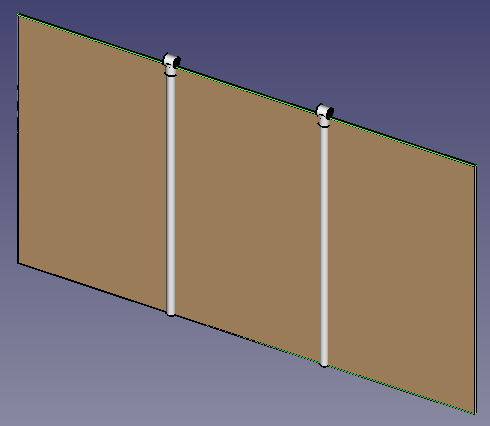
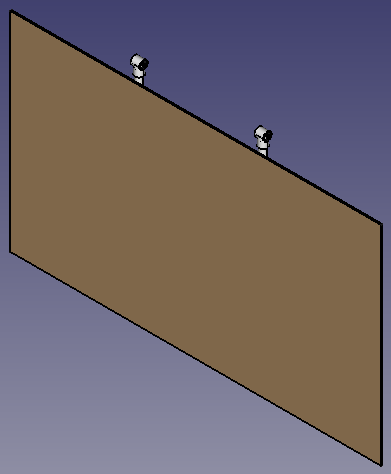
Created Unrinal Back and modified Cabin Back

diff --git a/src/python/structures.py b/src/python/structures.py
@@ -529,16 +529,17 @@ class Cabin_Floor: # TODO: Refactor to inherit from Structure Class
         self.structure = structure
 
 class Cabin_Back(Structure):
-    """ A class representing a Cabin Rear structure used as part of
+    """ A class representing a Cabin Back structure used as part of
     a composting toilet project."""
     
-    
+    board_start_y = back_y - joint_radius
+
     def __init__(self,
                 freecad_document,
                 structure_label,
                 rotation = App.Rotation(0,0,0),
                 centre = App.Vector(0,0,0)):
-        """ Constructs a Cabin_Rear in the freecad_document, with label attribute
+        """ Constructs a Cabin_Back in the freecad_document, with label attribute
         given by parameter structure_label and centre and rotation given by the
         corresponding parameters.  """
 
@@ -571,11 +572,10 @@ class Cabin_Back(Structure):
         right_mid_pole = make_pole(right_mid_pole_line, "Right_Mid_Pole")
 
         # Make Board
-        board_overlap = Double_Fixing_Pad.width / 2
+        board_start_z = seat_z + pole_radius + floor_board_thickness
         back_panel_rect = Draft.makeRectangle(board_length, 
-                                              back_roof_z - 
-                                              seat_support_z - 
-                                              pole_diameter)
+                                              wall_top_z - 
+                                              board_start_z)
         back_panel = Arch.makePanel(back_panel_rect, 
                                     thickness = side_panel_board_thickness)
         back_panel.Label = "Back_Panel"
@@ -584,8 +584,82 @@ class Cabin_Back(Structure):
                 App.Rotation(0, 0, 90),
                 App.Vector(0, 0, 0))
         Draft.move(back_panel, App.Vector(0,
-                        back_y + side_panel_board_thickness / 2,
-                        seat_support_z + pole_radius))
+                        Cabin_Back.board_start_y,
+                        board_start_z))
+
+        # TODO: Add fixings for boards
+
+        # Create a parts list
+        parts_list = [roof_left_mid_joint.fitting,
+                      roof_right_mid_joint.fitting,
+                      left_mid_pole,
+                      right_mid_pole,
+                      back_panel]
+        
+        super().__init__(freecad_document,
+                        structure_label,
+                        rotation,
+                        centre,
+                        parts_list)
+        
+class Urinal_Back(Structure):
+    """ A class representing a Urinal Back structure used as part of
+    a composting toilet project."""
+    
+    board_start_y = back_y - joint_radius
+    
+    def __init__(self,
+                freecad_document,
+                structure_label,
+                rotation = App.Rotation(0,0,0),
+                centre = App.Vector(0,0,0)):
+        """ Constructs a Urinal_Back in the freecad_document, with label attribute
+        given by parameter structure_label and centre and rotation given by the
+        corresponding parameters.  """
+
+        left_offset = App.Vector(pole_radius, 0, 0)
+        right_offset = App.Vector(side_panel_seperation_x - pole_radius, 0, 0)
+
+        # Make joints
+
+        roof_left_mid_joint  = Short_T(freecad_document = freecad_document,
+                                           fitting_label = "Roof_Left_Mid_Joint",
+                                           rotation = App.Rotation(0, 0, 0),
+                                           centre = back_roof_left_mid_centre)
+        roof_right_mid_joint  = Short_T(freecad_document = freecad_document,
+                                           fitting_label = "Roof_Right_Mid_Joint",
+                                           rotation = App.Rotation(0, 0, 0),
+                                           centre = back_roof_right_mid_centre)
+
+        # Make poles
+
+        pole_offset = App.Vector(0, 0, pole_radius)
+
+        left_mid_pole_start = back_floor_left_mid_centre + pole_offset
+        left_mid_pole_end = back_roof_left_mid_centre - pole_offset
+        left_mid_pole_line = Draft.make_line(left_mid_pole_start, left_mid_pole_end)
+        left_mid_pole = make_pole(left_mid_pole_line, "Left_Mid_Pole")
+
+        right_mid_pole_start = back_floor_right_mid_centre + pole_offset
+        right_mid_pole_end = back_roof_right_mid_centre - pole_offset
+        right_mid_pole_line = Draft.make_line(right_mid_pole_start, right_mid_pole_end)
+        right_mid_pole = make_pole(right_mid_pole_line, "Right_Mid_Pole")
+
+        # Make Board
+        board_start_z = floor_z + pole_radius + floor_board_thickness
+        back_panel_rect = Draft.makeRectangle(board_length, 
+                                              wall_top_z - 
+                                              board_start_z)
+        back_panel = Arch.makePanel(back_panel_rect, 
+                                    thickness = side_panel_board_thickness)
+        back_panel.Label = "Back_Panel"
+        back_panel.Placement = App.Placement(
+                App.Vector(0, 0, 0),
+                App.Rotation(0, 0, 90),
+                App.Vector(0, 0, 0))
+        Draft.move(back_panel, App.Vector(0,
+                        Urinal_Back.board_start_y,
+                        board_start_z))
 
         # TODO: Add fixings for boards
 

diff --git a/src/python/urinal_back_test.py b/src/python/urinal_back_test.py
@@ -1,0 +1,48 @@
+# This FreeCAD macro script makes Urinal Back objects
+# for advanced positioning and rotation testing as well as to
+# indicate how these panels can be connected together to.
+
+#  Import the packages that we need - TODO check that all of these are needed
+import FreeCAD as App
+import FreeCADGui as Gui
+
+from parameters import *
+from structures import Urinal_Back
+from structures import Urinal_Floor
+from structures import Side_Panel
+
+# Set Up Freecad and Select Workbench
+App.Console.PrintMessage("Starting FreeCAD generation.\n")
+doc_name = "Fittings"
+document = App.newDocument(doc_name)
+Gui.activeDocument().activeView().viewDefaultOrientation()
+Gui.runCommand('Std_OrthographicCamera',1)
+Gui.activateWorkbench("BIMWorkbench21")
+
+# Make 3 side panels a board length apart.
+side_panel_1 = Side_Panel(freecad_document = document, 
+                          structure_label = "Side_Panel_1")
+side_panel_2 = Side_Panel(freecad_document = document, 
+                          structure_label = "Side_Panel_2",
+                          centre = App.Vector(side_panel_seperation_x, 0, 0))
+side_panel_3 = Side_Panel(freecad_document = document, 
+                          structure_label = "Side_Panel_3",
+                          centre =  App.Vector(2 * side_panel_seperation_x, 0, 0))
+
+# Make Urinal Floors
+urinal_floor_1 = Urinal_Floor(freecad_document = document, 
+                          structure_label = "Urinal_Floor_1")
+urinal_floor_2 = Urinal_Floor(freecad_document = document, 
+                          structure_label = "Urinal_Floor_2",
+                          centre =  App.Vector(side_panel_seperation_x, 0, 0))
+# Make Urinal Backs
+urinal_back_1 = Urinal_Back(freecad_document = document, 
+                          structure_label = "Urinal_Back_1")
+urinal_back_2 = Urinal_Back(freecad_document = document, 
+                          structure_label = "Urinal_Back_2",
+                          centre =  App.Vector(side_panel_seperation_x, 0, 0))
+
+
+
+
+

diff --git a/src/python/urinal_back_simple.py b/src/python/urinal_back_simple.py
@@ -1,11 +1,11 @@
-# This FreeCAD macro script makes a Cabin Back
+# This FreeCAD macro script makes a Urinal Back
 # for basic testing illustration purposes
 
 #  Import the packages that we need
 import FreeCAD as App
 import FreeCADGui as Gui
 
-from structures import Cabin_Back
+from structures import Urinal_Back
 
 # Set Up Freecad and Select Workbench
 App.Console.PrintMessage("Starting FreeCAD generation.\n")
@@ -16,5 +16,5 @@ Gui.runCommand('Std_OrthographicCamera',1)
 Gui.activateWorkbench("BIMWorkbench21")
 
 # Draw a simple side outlet T object
-cabin_back = Cabin_Back(freecad_document = document,
-                        structure_label = "Cabin_Back")
+urinal_back = Urinal_Back(freecad_document = document,
+                        structure_label = "Urinal_Back")

diff --git a/README.md b/README.md
@@ -76,6 +76,11 @@ The components are constructed once and stored whole to enable easy set up and s
 </p>
 
 - **Urinal Back** This is a plywood based panel attached to poles and fittings. It is slotted into the fixings at the back of the Cabin Floor then fixed at the top to a pole that is slid through the Panel Sides at roof height. It is also fided to the panel sides. NOTE when sliding the pole through for the top fixing the roof fixings (6 double figing pads) must be added ready to attach the roof.When constructing urinals it is the second step.
+
+<p align="center">
+    <img src="images/urinal_back.png" alt="A Urinal Back Structure">
+</p>
+
 - **Cabin Partition** These are simple plywood sheets cut to size that form the seperation between individual composting toilet cabins. There are 2 for each cabin block. After the roof has been fixed they slide into the cabin floor and rear ready for the cabin front to be attached. They are attached to the cabin front via a single sided clip 
 - **Cabin Front** This is a plywood and scaffolding construction that contains doors to the cabins. It is slotted into the fixings at the front of the Cabin Floor then fixed at the top to a pole that is slid through the Panel Sides at roof height, fixing the front of the roof at the same time. It is also fixed to the panel sides.
 - **Urinal Front** These are plywood and scafolding constructions that provide privacy to the urinals. They are slotted into the fixings at the front of the Urinal Floor then fixed at the top to a pole that is slid through the Panel Sides at roof height, fixing the front of the roof at the same time. They are also fixed to the panel sides. There are 2 for each urinal block.
